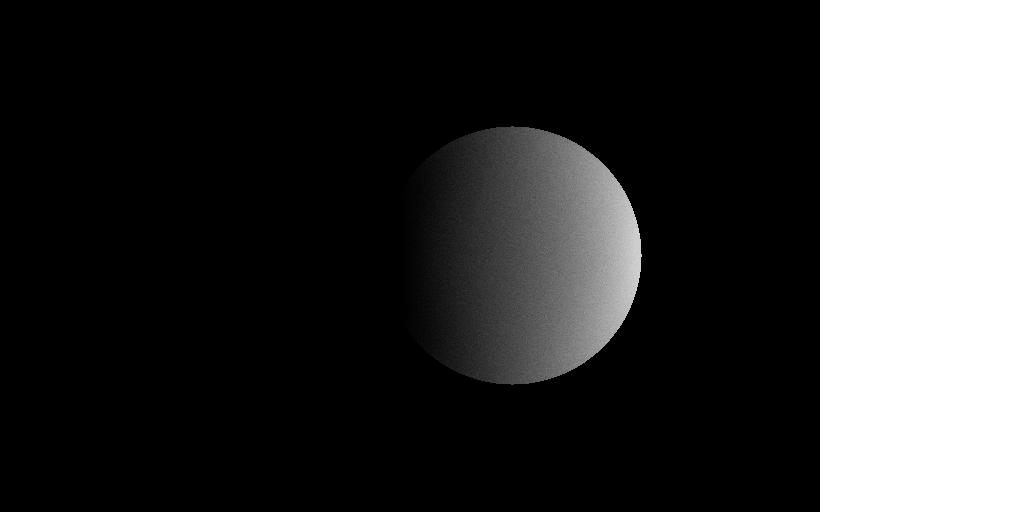
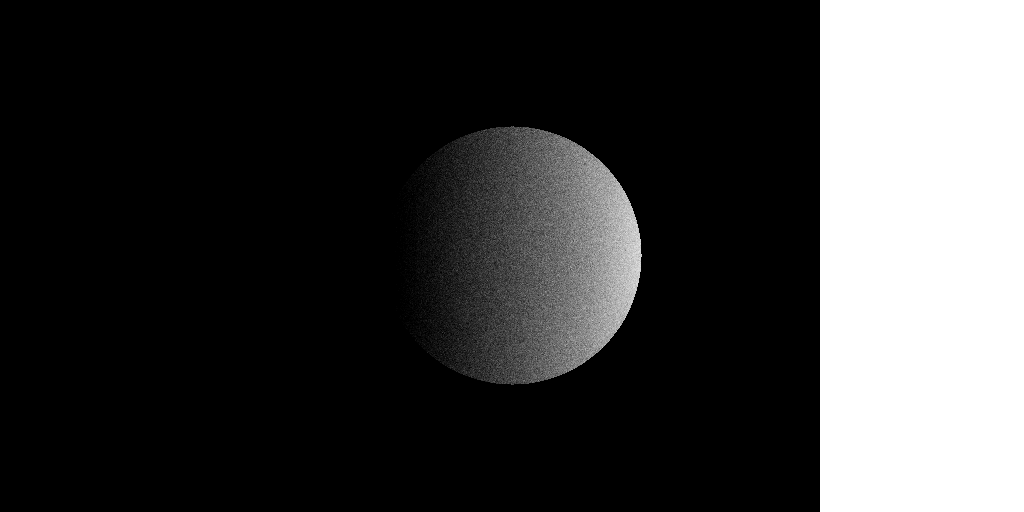
added functionality to RayHit and Sphere

Changed region(s): [[0.4688, 0.25, 0.5938, 0.7188], [0.5, 0.7188, 0.5312, 0.75], [0.4688, 0.6875, 0.5, 0.7188]]

diff --git a/src/Sphere.cpp b/src/Sphere.cpp
@@ -1,0 +1,51 @@
+#include "Sphere.h"
+
+Sphere::Sphere(Vec3d center, float radius) {
+    this->center = center;
+    this->radius = radius;
+}
+
+void Sphere::checkHit(RayHit r) {
+    // calculating the a, b, and c values to plug into the quadratic equation
+    double a = pow(r.getRayDirection().x,2) + pow(r.getRayDirection().y,2) + pow(r.getRayDirection().z,2);
+
+    double b = 2 * ((r.getRayOrigin().x - center.x)*(r.getRayDirection().x) + (r.getRayOrigin().y - center.y)*(r.getRayDirection().y)
+        + (r.getRayOrigin().z - center.z)*(r.getRayDirection().z));
+
+    double c = pow((r.getRayOrigin().x - center.x), 2) + pow((r.getRayOrigin().y - center.y), 2)
+        + pow((r.getRayOrigin().z - center.z), 2) - pow(radius, 2);
+
+    if (pow(b, 2) - 4*a*c < 0 || a == 0) {
+            r.setIfHit(false);
+    }
+
+    double sPos = (-b + sqrt(pow(b, 2) - 4*a*c)) / 2*a;
+    double sNeg = (-b - sqrt(pow(b, 2) - 4*a*c)) / 2*a;
+
+    if(sPos < 0 && sNeg < 0) {
+        r.setIfHit(false);
+    }
+    else {
+        r.setIfHit(true);
+
+        double s = 0.0;
+
+        if (sPos < 0 && sNeg > 0)
+            s = sNeg;
+        else if (sNeg < 0 && sPos > 0)
+            s = sPos;
+        else
+            s = fmin(sPos, sNeg);
+
+        //TODO: condense into 1 line?
+        Vec3d hitPoint = r.getRay().atMultiple(s);
+
+        r.setHitPoint(hitPoint);
+        r.setSurfaceNormal(calculateSurfaceNormal(hitPoint));
+    }
+}
+// TODO: private??
+Vec3d Sphere::calculateSurfaceNormal(Vec3d hitPoint) {
+    Vec3d surfaceNormal = hitPoint - center;
+    return surfaceNormal.unit();
+}

diff --git a/src/lightbox.cpp b/src/lightbox.cpp
@@ -5,6 +5,7 @@
 
 #include "Image.h"
 #include "RayHit.h"
+#include "Sphere.h"
 
 using namespace geom;
 using namespace std;
@@ -156,11 +157,11 @@ void render_image(Image<double,3>& img) {
 
             Vec3d color = Vec3d(0.0, 0.0, 0.0);
 
-            for (int i = 0; i < 50; i++) {
+            for (int i = 0; i < 10; i++) {
                 color += trace(r, 0);
             }
 
-            color /= 50;
+            color /= 10;
 
             img[xy] = color;
         }
@@ -168,7 +169,6 @@ void render_image(Image<double,3>& img) {
 }
 
 int main(int argc, char** argv) {
-
     Image<double,3> img(1024, 512); // a 3-channel image.
 
     render_image(img);
@@ -177,3 +177,24 @@ int main(int argc, char** argv) {
 
     return 0;
 }
+
+/*
+ * TODO: make a sphere object that takes in the center and radius
+ * you can pass that sphere object a rayhit object
+ * if it doesn't hit the sphere, the rayhit object has a bool value that you
+ * set to false. if it does it, you store the location of the hit, the normal,
+ * and generate a new random direction.
+trace {
+    for(int i = 0; i < 10; i++) {
+        Sphere s = Sphere(radius, center);
+        s.checkHit(rayHitObj);
+        if rayHitObj.hit() {
+            trace(rayHitObj);
+            return colorFormula;
+        }
+        else {
+            return skyColor
+        }
+    }
+}
+*/

diff --git a/src/RayHit.h b/src/RayHit.h
@@ -2,18 +2,31 @@
 #define RAYHIT
 
 #include <geomc/linalg/Vec.h>
+#include <geomc/linalg/AffineTransform.h>
 
 using namespace geom;
 
 class RayHit {
 private:
+    Ray<double, 3> r;
+    bool isAHit;
     Vec3d hitPoint;
     Vec3d newDirection;
+    Vec3d surfaceNormal; //every hit will have a surface normal, but it will depend on what it's hitting
 
 public:
     RayHit(Vec3d);
+    RayHit(Ray<double, 3>);
+    void setHitPoint(Vec3d);
+    void setIfHit(bool);
+    void generateNewDirection();
+    void setNewDirection(); // TODO: actually use this
+    void setSurfaceNormal(Vec3d);
     Vec3d getHitPoint();
     Vec3d getNewDirection();
+    Ray<double, 3> getRay();
+    Vec3d getRayOrigin();
+    Vec3d getRayDirection();
 
 };
 

diff --git a/src/RayHit.cpp b/src/RayHit.cpp
@@ -1,5 +1,38 @@
 #include "RayHit.h"
 
+RayHit::RayHit(Ray<double, 3> r) {
+    this->r = r;
+}
+
+void RayHit::setIfHit(bool hit) {
+    this->isAHit = hit;
+}
+
+/* Probably won't need this */
 RayHit::RayHit(Vec3d hitPoint) {
     this->hitPoint = hitPoint;
+}
+
+void RayHit::setHitPoint(Vec3d hitPoint) {
+    this->hitPoint = hitPoint;
+}
+
+Ray<double, 3> RayHit::getRay() {
+    return r;
+}
+
+Vec3d RayHit::getRayOrigin() {
+    return r.origin;
+}
+
+Vec3d RayHit::getRayDirection() {
+    return r.direction;
+}
+
+void RayHit::generateNewDirection() {
+
+}
+
+void RayHit::setSurfaceNormal(Vec3d surfaceNormal) {
+    this->surfaceNormal = surfaceNormal;
 }

diff --git a/src/Sphere.h b/src/Sphere.h
@@ -1,0 +1,21 @@
+#ifndef SPHERE
+#define SPHERE
+
+#include <geomc/linalg/Vec.h>
+#include "RayHit.h"
+
+using namespace geom;
+
+class Sphere {
+private:
+    Vec3d center;
+    float radius;
+    Vec3d calculateSurfaceNormal(Vec3d); // will only be called if there's a hit
+
+public:
+    Sphere(Vec3d, float);
+    void checkHit(RayHit);
+
+};
+
+#endif
